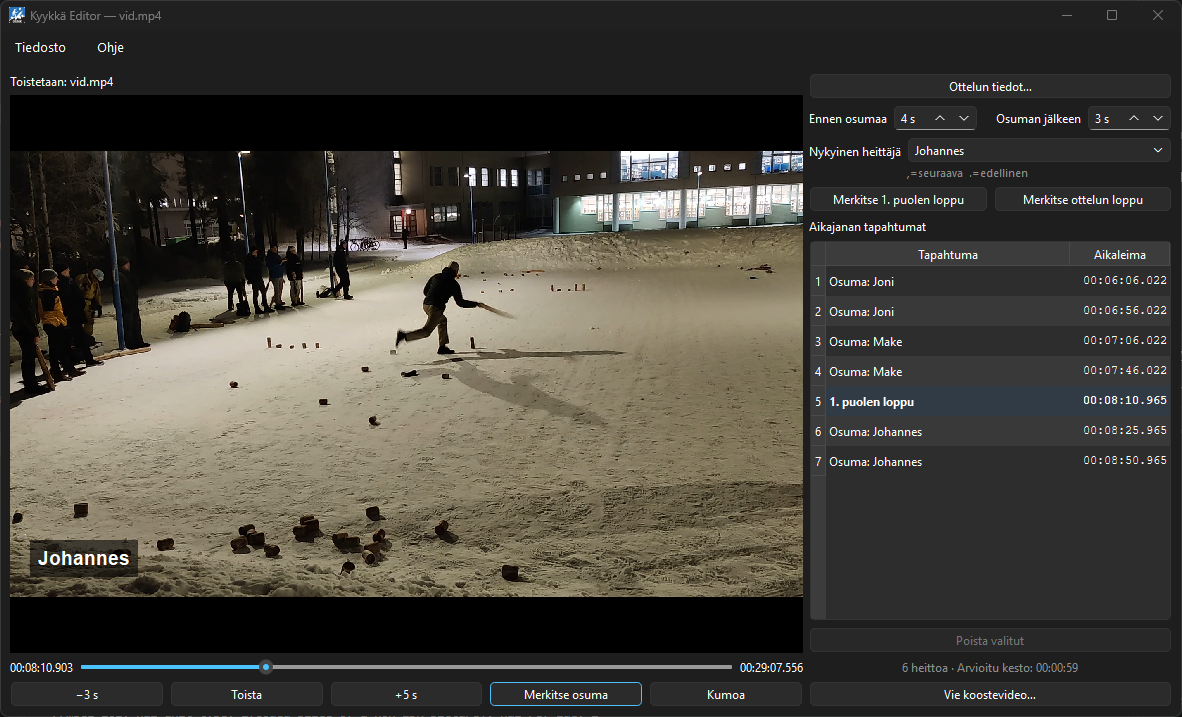
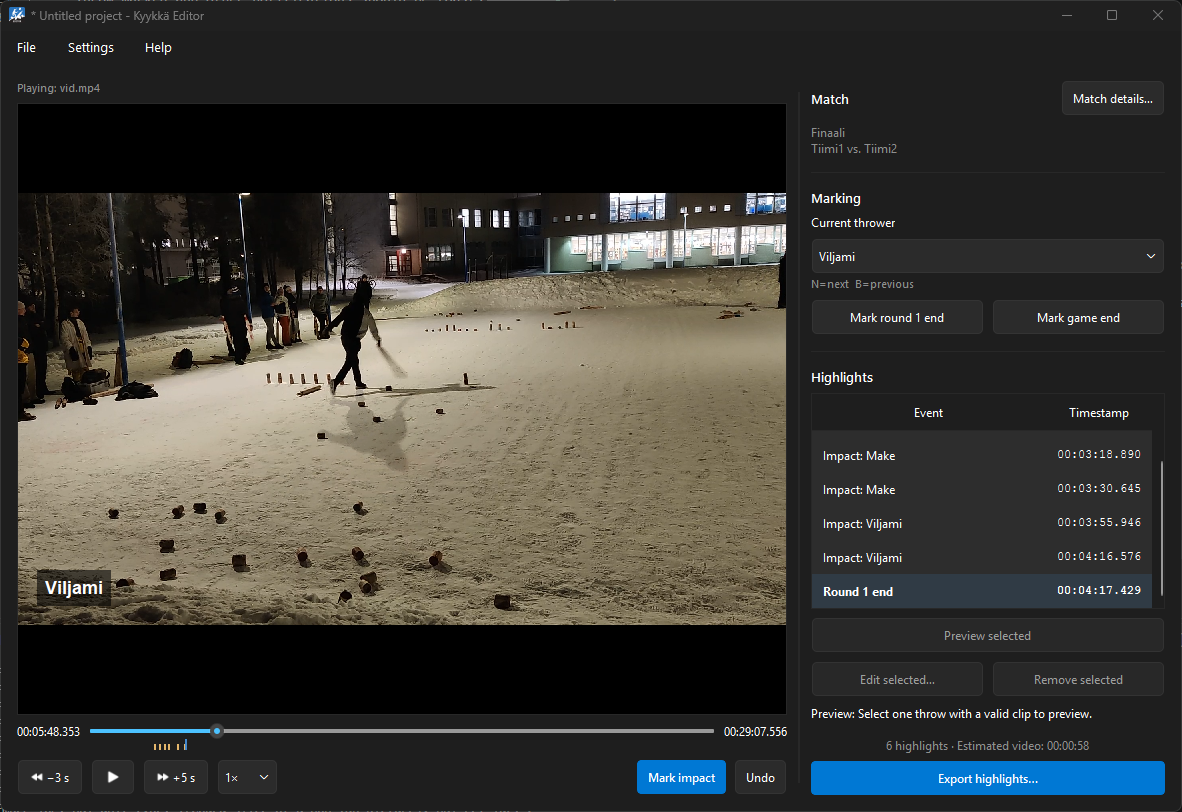
update screenshots and documentation

diff --git a/TODO.md b/TODO.md
@@ -1,0 +1,29 @@
+# TODO
+
+## High-priority fixes
+
+- [ ] Preserve the recovery file when recovery fails or locating the source video is cancelled. Delete it only after successful recovery or explicit discard. Add regression coverage for failed recovery followed by closing the app.
+- [ ] Prevent large highlight exports from exceeding Windows' command-line limit. Move the FFmpeg filter graph into a file and check whether inputs also need batching. Test realistic match sizes, including 96 throws with player overlays and long file paths.
+
+## Correctness and reliability
+
+- [ ] Respect rotation metadata and sample aspect ratio when rendering highlights so portrait and anamorphic videos retain their proportions. Share source-dimension handling with Combine videos and add rotated-video coverage.
+- [ ] Preserve playback position and paused/playing state when saving Match details without changing the source video. Avoid reloading the video for title, roster, or score edits.
+- [ ] Automatically add `.mp4` when the highlight export filename has no extension, matching Combine videos. Test an extensionless filename.
+- [ ] Make initial FFprobe calls cancellable and give them a timeout so cancelling an export also interrupts media probing.
+- [ ] Isolate application settings and recovery paths across the entire test suite. Tests must not read or overwrite the developer's saved preferences, hotkeys, or workspace state.
+- [ ] Preserve millisecond timing overrides when editing other throw fields, or consistently reject unsupported precision when loading projects. Test that a valid 1500 ms override is not silently changed to 1000 ms.
+
+## Documentation cleanup
+
+- [ ] Use one virtual-environment directory name consistently in README setup and build instructions, and list FFprobe alongside FFmpeg in the requirements.
+- [ ] Update README screen-background options to match the separate Color and Image choices, and fix the `Settings ? Preferences?` text.
+- [ ] Refresh README screenshots to show the current layout and the timing controls under Preferences.
+- [ ] Correct the FFmpeg vendor instructions: `build.ps1` currently requires tools on PATH or an explicit `-FFmpegBin`; merely placing them in `vendor/ffmpeg/bin` is insufficient.
+- [ ] Make the bundled FFmpeg description consistent: About refers to the Gyan full build, while CI packages essentials.
+
+## Further improvements
+
+- [ ] Expand rendering integration coverage beyond one or two throws to include realistic match sizes and the export edge cases above.
+- [ ] Make editing the current project's screen styles more direct. Screen settings currently starts from application defaults even when the open project has different styles.
+- [ ] Gradually separate project persistence, playback, and dialogs from `app.py` to reduce coupling and simplify regression testing.
